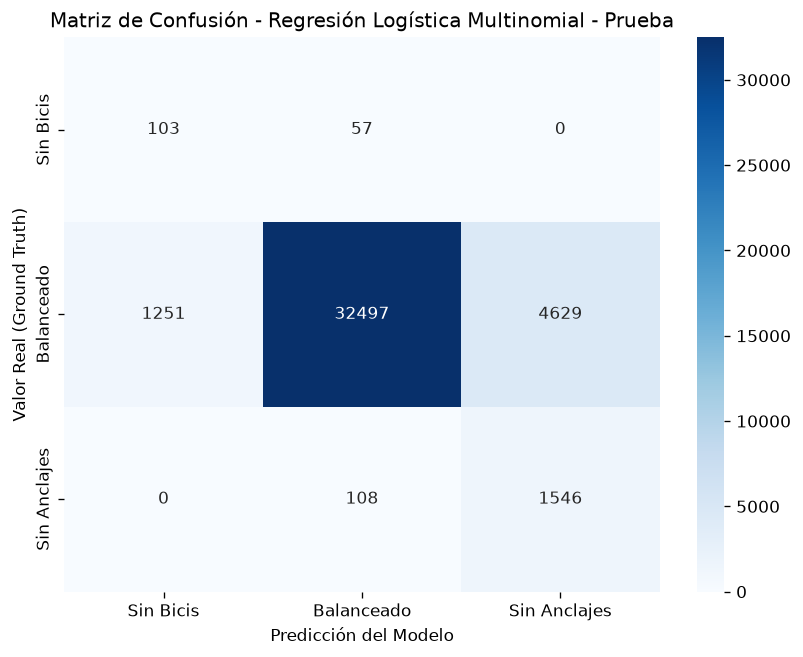
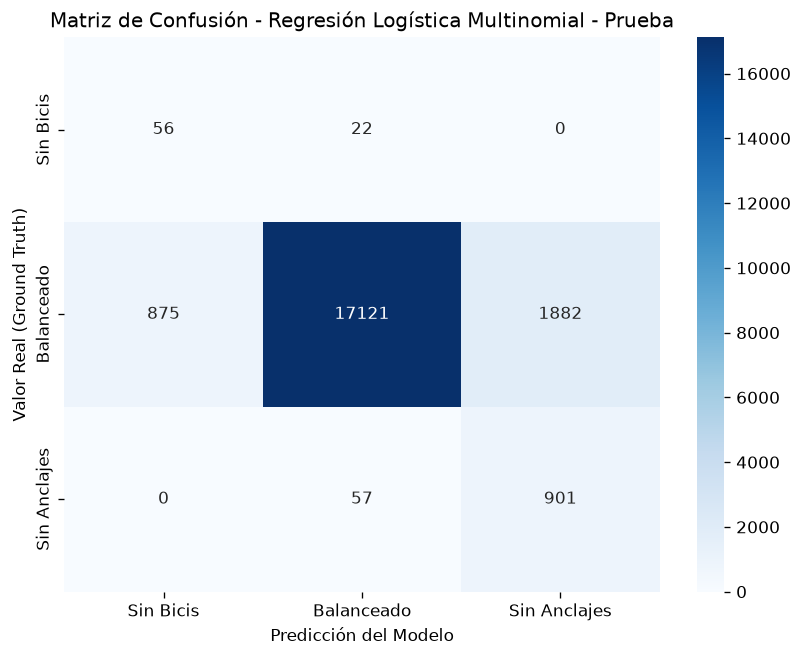
fix: The P2 model now uses the features that where planned from the beginning.

diff --git a/mi-bici-experiment/mi_bici_experiment/features.py b/mi-bici-experiment/mi_bici_experiment/features.py
@@ -5,8 +5,6 @@ from loguru import logger
 import typer
 import pandas as pd
 import numpy as np
-from sklearn.cluster import KMeans
-from sklearn.neighbors import NearestNeighbors
 
 from mi_bici_experiment.config import INTERIM_DATA_DIR, LAGS, PM_DIAS, PROCESSED_DATA_DIR
 from mi_bici_experiment.plots import print_balance_normalizado
@@ -20,6 +18,7 @@ from mi_bici_experiment.config import (
     FECHA_INICIO_COL,
     INTERIM_DATA_DIR,
     NOMENCLATURA_CSV,
+    P2_FEATURES_PARQUET,
     P3_MIN_VIAJES,
     STATION_COL,
 )
@@ -89,7 +88,7 @@ def clasificacion_variable_objetivo_y_caracterizticas():
 @app.command()
 def main(
     input_path: Path = INTERIM_DATA_DIR,
-    output_path: Path = INTERIM_DATA_DIR,
+    output_path: Path = PROCESSED_DATA_DIR,
 ):
     trips_df = pd.read_parquet(
         input_path / "trips_10_2024_to_09_2026.parquet",
@@ -118,7 +117,7 @@ def main(
     print(features_df.info())
 
     output_path.mkdir(parents=True, exist_ok=True)
-    features_df.to_parquet(output_path / "features.parquet", index=False)
+    features_df.to_parquet(output_path / P2_FEATURES_PARQUET.name, index=False)
 
 def agregar_balance_neto_y_normalizado(df):
     df['Fecha'] = df['Inicio_del_viaje'].dt.floor('d')
@@ -185,76 +184,52 @@ def creacion_variables_memoria_historica(dataset_ml):
     # Asegurar de que el dataset esté perfectamente ordenado
     dataset_ml = dataset_ml.sort_values(['Estacion_Id', 'Fecha'])
 
-    # Variables de Retardo (Lags)
-    # ¿Cómo se comportó el balance ayer y antier?
-    dataset_ml['Balance_Lag_1'] = dataset_ml.groupby('Estacion_Id')['Balance_Normalizado'].shift(1)
-    dataset_ml['Balance_Lag_2'] = dataset_ml.groupby('Estacion_Id')['Balance_Normalizado'].shift(2)
-
     # ¿Cómo se comportó el balance el mismo día de la semana pasada?
     dataset_ml['Balance_Lag_7'] = dataset_ml.groupby('Estacion_Id')['Balance_Normalizado'].shift(7)
 
-    # Estado categórico previo (para capturar transiciones de estado)
-    dataset_ml['Estado_Lag_1'] = dataset_ml.groupby('Estacion_Id')['Estado_Actual'].shift(1)
-    dataset_ml['Estado_Lag_7'] = dataset_ml.groupby('Estacion_Id')['Estado_Actual'].shift(7)
+    # Volumen de llegadas y salidas en la misma estación en días anteriores.
+    columnas_lag = []
+    for lag in (1, 2, 3, 7):
+        for columna in ('Llegadas', 'Salidas'):
+            nombre_lag = f'{columna}_Lag_{lag}'
+            dataset_ml[nombre_lag] = dataset_ml.groupby('Estacion_Id')[columna].shift(lag)
+            columnas_lag.append(nombre_lag)
 
-    # Ventanas Móviles (Rolling Windows)
-    # Promedio del balance en los últimos 3 y 7 días (captura la tendencia suavizada)
-    dataset_ml['Media_Movil_3d'] = dataset_ml.groupby('Estacion_Id')['Balance_Normalizado'].transform(
-        lambda x: x.rolling(window=3, min_periods=1).mean()
-    )
-    dataset_ml['Media_Movil_7d'] = dataset_ml.groupby('Estacion_Id')['Balance_Normalizado'].transform(
+    # Promedios móviles de 7 días para las llegadas y las salidas.
+    dataset_ml['Media_Movil_7d_Llegadas'] = dataset_ml.groupby('Estacion_Id')['Llegadas'].transform(
         lambda x: x.rolling(window=7, min_periods=1).mean()
     )
-
-    # Volatilidad en los últimos 3 días (estaciones con mucha varianza son más impredecibles)
-    dataset_ml['Volatilidad_3d'] = dataset_ml.groupby('Estacion_Id')['Balance_Normalizado'].transform(
-        lambda x: x.rolling(window=3, min_periods=1).std()
-    ).fillna(0) # Llenamos con 0 donde no hay suficientes datos para desviación estándar
+    dataset_ml['Media_Movil_7d_Salidas'] = dataset_ml.groupby('Estacion_Id')['Salidas'].transform(
+        lambda x: x.rolling(window=7, min_periods=1).mean()
+    )
 
     #  Limpieza post-ingeniería
     # Al hacer shift(7), los primeros 7 días de cada estación quedarán con nulos en Lag_7.
     # Para entrenar modelos (como Random Forest o XGBoost), es mejor eliminar estos registros incompletos.
-    dataset_ml = dataset_ml.dropna(subset=['Balance_Lag_7', 'Estado_Lag_7']).copy()
+    dataset_ml = dataset_ml.dropna(subset=['Balance_Lag_7', *columnas_lag]).copy()
 
-    # Convertir variables de estado a enteros tras el dropna
-    dataset_ml['Estado_Lag_1'] = dataset_ml['Estado_Lag_1'].astype(int)
-    dataset_ml['Estado_Lag_7'] = dataset_ml['Estado_Lag_7'].astype(int)
-
-    print(dataset_ml[['Fecha', 'Estacion_Id', 'Balance_Lag_1', 'Media_Movil_3d', 'Riesgo_T1']].head(10))
+    print(
+        dataset_ml[
+            [
+                'Fecha',
+                'Estacion_Id',
+                'Balance_Lag_7',
+                'Llegadas_Lag_1',
+                'Llegadas_Lag_2',
+                'Llegadas_Lag_3',
+                'Llegadas_Lag_7',
+                'Salidas_Lag_1',
+                'Salidas_Lag_2',
+                'Salidas_Lag_3',
+                'Salidas_Lag_7',
+                'Media_Movil_7d_Llegadas',
+                'Media_Movil_7d_Salidas',
+                'Riesgo_T1',
+            ]
+        ].head(10)
+    )
     return dataset_ml
 
-def creacion_variables_geoespaciales(dataset_ml, df):
-    # Extraer el catálogo estático de estaciones con sus coordenadas
-    # df es dataframe original crudo
-    estaciones_geo = df[['Origen_Id', 'latitude', 'longitude']].drop_duplicates()
-    estaciones_geo = estaciones_geo.rename(columns={'Origen_Id': 'Estacion_Id'}).dropna()
-    print(dataset_ml.info())
-    print(dataset_ml.info())
-    # 2. Macro-arquitectura: Creación de Clústeres Urbanos (Zonas)
-    # Agrupamos las estaciones en 10 zonas geográficas distintas
-    kmeans = KMeans(n_clusters=10, random_state=42, n_init=10)
-    estaciones_geo['Zona_Espacial'] = kmeans.fit_predict(estaciones_geo[['latitude', 'longitude']])
-
-    # 3. Micro-resiliencia: Densidad de red (Estaciones a menos de ~500 metros)
-    # Convertimos coordenadas a radianes para usar la fórmula Haversine (distancia real en esfera)
-    coords_rad = np.radians(estaciones_geo[['latitude', 'longitude']])
-
-    # Radio de la Tierra ~6371 km. Buscamos vecinos en 0.5 km (500 metros).
-    radio_radianes = 0.5 / 6371.0 
-    nn = NearestNeighbors(radius=radio_radianes, metric='haversine')
-    nn.fit(coords_rad)
-
-    # Calculamos cuántas estaciones caen en ese radio (restando 1 para excluir la estación misma)
-    vecinos = nn.radius_neighbors(coords_rad, return_distance=False)
-    estaciones_geo['Densidad_500m'] = [len(v) - 1 for v in vecinos]
-
-    # 4. Consolidación de la Arquitectura de Datos
-    # Unimos estas características estáticas al dataset histórico de Machine Learning
-    dataset_ml = pd.merge(dataset_ml, estaciones_geo, on='Estacion_Id', how='left')
-
-    # Verificamos la matriz final
-    print(dataset_ml[['Estacion_Id', 'Zona_Espacial', 'Densidad_500m', 'Balance_Lag_1', 'Riesgo_T1']].head())
-    return dataset_ml
 # ---------------------------------------------------------------------------------------------
 # P3: grupos de estaciones con patrones de uso similares
 # ---------------------------------------------------------------------------------------------

diff --git a/mi-bici-experiment/mi_bici_experiment/modeling/modules/p2_classification/models.py b/mi-bici-experiment/mi_bici_experiment/modeling/modules/p2_classification/models.py
@@ -15,16 +15,16 @@ from sklearn.preprocessing import StandardScaler
 from mi_bici_experiment.config import (
     EQUIPO,
     FECHA_FIN,
-    FECHA_INICIO,
     FIGURES_DIR,
-    INTERIM_DATA_DIR,
     MLFLOW_EXPERIMENT,
+    P2_DATASET_PARQUET,
+    P2_FECHA_INICIO,
+    P2_FEATURES_PARQUET,
     RANDOM_STATE,
 )
 from mi_bici_experiment.features import (
     agregar_balance_neto_y_normalizado,
     clasificacion_variable_objetivo_y_caracterizticas,
-    creacion_variables_geoespaciales,
     creacion_variables_memoria_historica,
     main as generar_features,
 )
@@ -38,20 +38,20 @@ class ClassificationModel:
     def __init__(self, dataset_ml: pd.DataFrame):
         self.dataset_ml = dataset_ml
         self.features = [
-            "dpcapacity",
             "Dia_Semana",
             "Es_Fin_Semana",
             "Mes",
-            "Balance_Lag_1",
-            "Balance_Lag_2",
             "Balance_Lag_7",
-            "Estado_Lag_1",
-            "Estado_Lag_7",
-            "Media_Movil_3d",
-            "Media_Movil_7d",
-            "Volatilidad_3d",
-            "Zona_Espacial",
-            "Densidad_500m",
+            "Llegadas_Lag_1",
+            "Llegadas_Lag_2",
+            "Llegadas_Lag_3",
+            "Llegadas_Lag_7",
+            "Salidas_Lag_1",
+            "Salidas_Lag_2",
+            "Salidas_Lag_3",
+            "Salidas_Lag_7",
+            "Media_Movil_7d_Llegadas",
+            "Media_Movil_7d_Salidas",
         ]
 
         # Construcción del Pipeline de Machine Learning
@@ -121,7 +121,7 @@ class ClassificationModel:
                     "n_train": len(X_train),
                     "n_validacion": len(X_val),
                     "n_test": len(X_test),
-                    "fecha_inicio": FECHA_INICIO,
+                    "fecha_inicio": P2_FECHA_INICIO,
                     "fecha_fin": FECHA_FIN,
                     "random_state": RANDOM_STATE,
                 }
@@ -183,13 +183,22 @@ class ClassificationModel:
 
     @staticmethod
     def ejecutar():
-        features_path = INTERIM_DATA_DIR / "features.parquet"
+        features_path = P2_FEATURES_PARQUET
         if not features_path.is_file():
             generar_features()
         df = pd.read_parquet(features_path)
         balance_diario = agregar_balance_neto_y_normalizado(df)
         dataset_ml = clasificacion_variable_objetivo_y_caracterizticas(balance_diario)
         dataset_ml = creacion_variables_memoria_historica(dataset_ml)
-        dataset_ml = creacion_variables_geoespaciales(dataset_ml, df)
+        # Keep earlier rows as history for lag calculations, but train only from this date onward.
+        dataset_ml = dataset_ml.loc[
+            dataset_ml["Fecha"] >= pd.Timestamp(P2_FECHA_INICIO)
+        ].copy()
+
+        # Persist the exact date-filtered dataset used by the P2 model.
+        P2_DATASET_PARQUET.parent.mkdir(parents=True, exist_ok=True)
+        dataset_ml.to_parquet(P2_DATASET_PARQUET, index=False)
+        dataset_ml = pd.read_parquet(P2_DATASET_PARQUET)
+
         modelo = ClassificationModel(dataset_ml)
         modelo.entrenar()

diff --git a/mi-bici-experiment/mi_bici_experiment/config.py b/mi-bici-experiment/mi_bici_experiment/config.py
@@ -70,6 +70,9 @@ EQUIPO = "12"
 NOMENCLATURA_CSV = RAW_DATA_DIR / "nomenclatura_2026_09.csv"
 DESTINO_COL = "destino_id"
 FECHA_FIN_COL = "fin_del_viaje"
+P2_FECHA_INICIO = "2025-10-01"
+P2_FEATURES_PARQUET = PROCESSED_DATA_DIR / "p2_features.parquet"
+P2_DATASET_PARQUET = PROCESSED_DATA_DIR / "p2_classification_dataset.parquet"
 
 ##   Clustering (P3)   ##
 # Entrenamiento de 12 meses (2025-07 a 2026-06, un ciclo estacional completo); la validación son
